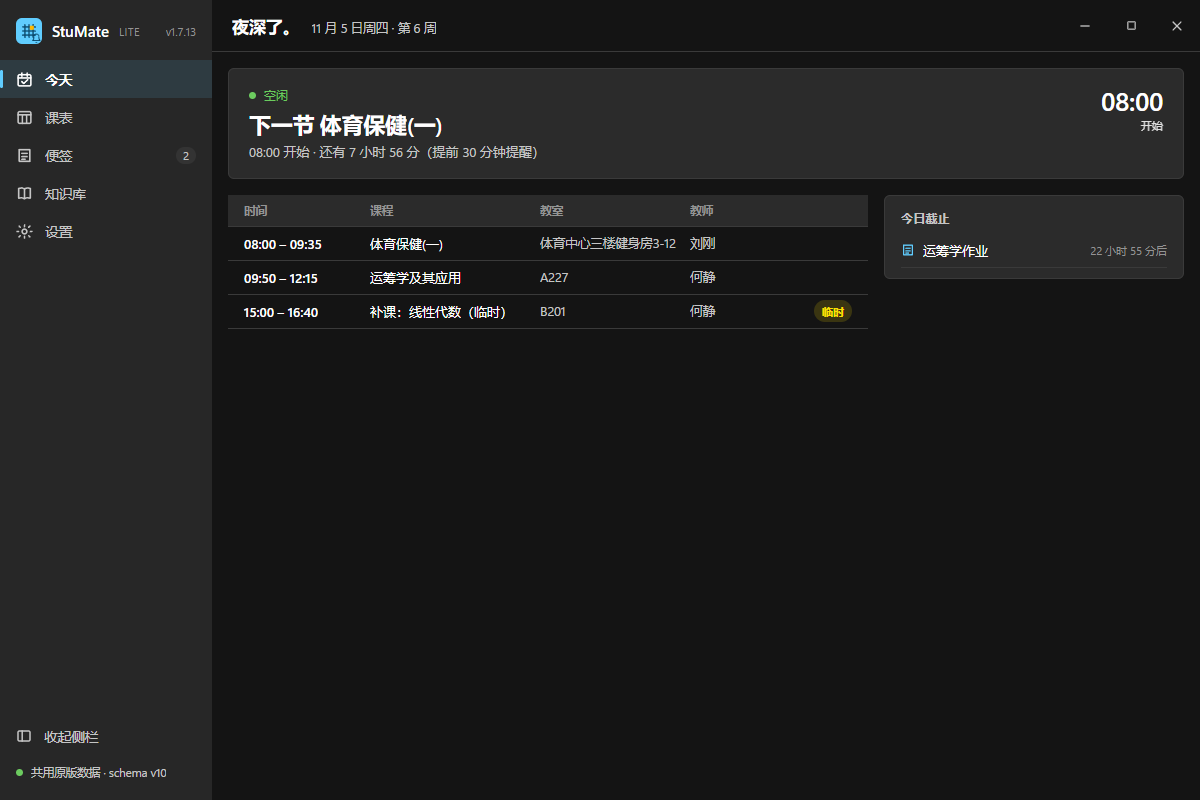
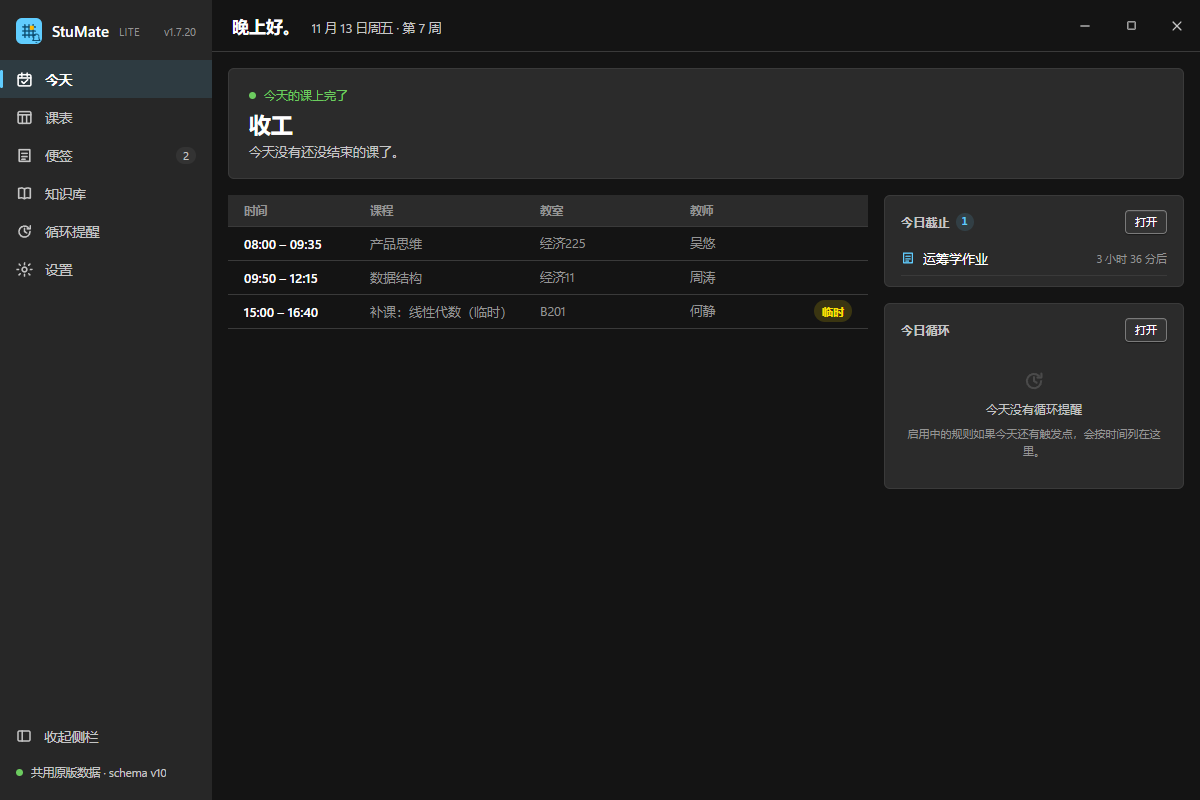
v1.7.20 今日截止加打开按钮，卡片按钮统一显式描边

diff --git a/src/styles/app.css b/src/styles/app.css
@@ -2323,7 +2323,9 @@ html.theme-switching *::after {
   padding: 14px 16px 10px;
 }
 
-.today-rec-head {
+/* v1.7.20：右列两张卡的标题行/计数徽标统一成同一套类，
+ * 「今日截止」也要挂「打开」按钮，两边不能各写一份。 */
+.card-head {
   display: flex;
   align-items: center;
   justify-content: space-between;
@@ -2331,7 +2333,7 @@ html.theme-switching *::after {
   margin-bottom: 8px;
 }
 
-.today-rec-heading {
+.card-heading {
   display: flex;
   align-items: center;
   gap: 6px;
@@ -2341,7 +2343,7 @@ html.theme-switching *::after {
   color: var(--on-surface-variant);
 }
 
-.today-rec-count {
+.card-head-count {
   display: inline-flex;
   align-items: center;
   justify-content: center;
@@ -2354,10 +2356,6 @@ html.theme-switching *::after {
   font-family: var(--font-mono, monospace);
   font-size: 11px;
   font-weight: 600;
-}
-
-.today-rec-open {
-  flex: 0 0 auto;
 }
 
 .today-rec-empty {
@@ -2643,3 +2641,65 @@ html.theme-switching *::after {
   .rec-fire-tip { animation: none; }
 }
 
+
+/* ── v1.7.20 · 卡片右上角「打开」：做一个看得见边缘的按钮 ─────────────
+ * 原来「打开」是 .btn.ghost（border-color: transparent），压在卡面底色上
+ * 只剩一行 11px 灰字，读起来像标签而不是按钮。这里给它一条真能看见的边：
+ *   · 1px 描边取 --card-btn-edge：浅色 #8c8c8c 对白卡 3.4:1、深色 #7a7a7a
+ *     对 #2b2b2b 约 3.1:1 —— 两套都过 WCAG 1.4.11「非文字控件边界 3:1」，
+ *     深色下也不会糊进卡面（--outline-strong #4a4a4a 只有 1.6:1，不够用）；
+ *   · 上沿 1px 内高光 + 下沿 1px 硬影，给一块「凸起」的实体感；按下时反
+ *     过来（内阴影 + 下沉 0.5px），按压反馈只动 transform，不改变布局边界；
+ *   · hover 把描边换成强调色、底色铺一层 --accent-tint，文字仍用正文色
+ *     —— 11px 的蓝字压在蓝底上没必要，边界变亮已经足够说明「可点」。
+ * 键盘焦点沿用全局 button:focus-visible 的强调色外环，这里不另写。
+ * 回滚 = 删掉本段 + 两处 className 里的 card-open-btn。 */
+:root[data-theme="light"] {
+  --card-btn-bg: #ffffff;
+  --card-btn-edge: #8c8c8c;
+  --card-btn-hi: rgba(255, 255, 255, 0.9);
+  --card-btn-drop: rgba(0, 0, 0, 0.1);
+}
+:root[data-theme="dark"] {
+  /* 深色下卡面本身就是 --surface #2b2b2b，按钮填同色会只剩一个空心框；
+     往上提一档到 #333，配合描边才读得出「凸起的一块」。 */
+  --card-btn-bg: #333333;
+  --card-btn-edge: #7a7a7a;
+  --card-btn-hi: rgba(255, 255, 255, 0.07);
+  --card-btn-drop: rgba(0, 0, 0, 0.45);
+}
+
+/* 选择器写满 .btn.xxx：.btn.sm 是 (0,2,0)，只写 .card-open-btn 会被它的
+ * height / padding 盖掉；文件末尾的同等权重靠先后顺序取胜。 */
+.btn.card-open-btn {
+  flex: 0 0 auto;
+  height: 24px;
+  padding: 0 9px;
+  border: 1px solid var(--card-btn-edge);
+  background: var(--card-btn-bg);
+  color: var(--on-surface);
+  white-space: nowrap;
+  box-shadow: inset 0 1px 0 var(--card-btn-hi), 0 1px 1px var(--card-btn-drop);
+  transition: background var(--dur-fast) var(--ease-fluent),
+    border-color var(--dur-fast) var(--ease-fluent),
+    box-shadow var(--dur-fast) var(--ease-fluent),
+    transform var(--dur-fast) var(--ease-fluent);
+}
+
+.btn.card-open-btn:hover {
+  border-color: var(--accent);
+  background: var(--accent-tint);
+  box-shadow: inset 0 1px 0 var(--card-btn-hi), 0 1px 2px var(--card-btn-drop);
+}
+
+.btn.card-open-btn:active {
+  border-color: var(--accent);
+  background: var(--press);
+  transform: translateY(0.5px);
+  box-shadow: inset 0 1px 2px var(--card-btn-drop);
+}
+
+@media (prefers-reduced-motion: reduce) {
+  .btn.card-open-btn { transition: none; }
+  .btn.card-open-btn:active { transform: none; }
+}

diff --git a/src/pages/TodayPage.tsx b/src/pages/TodayPage.tsx
@@ -127,7 +127,25 @@ export function TodayPage({
               包一层 flex 列而不是把两节塞进同一张卡 —— 用户要的是「单独窗口」。 */}
           <div className="today-side">
           <section className="card" style={{ padding: "14px 16px 10px" }}>
-            <SectionTitle>今日截止</SectionTitle>
+            {/* v1.7.20：「今日截止」也挂上「打开」，跳到便签页。
+                标题行与下方「今日循环」共用 card-head / card-heading /
+                card-head-count 三个类，两张卡的头部才严丝合缝地同高对齐。 */}
+            <div className="card-head">
+              <div className="card-heading">
+                <span>今日截止</span>
+                {deadlines.length > 0 ? (
+                  <span className="card-head-count">{deadlines.length}</span>
+                ) : null}
+              </div>
+              <button
+                type="button"
+                className="btn sm card-open-btn"
+                onClick={() => onNavigate?.("notes")}
+                title="打开便签页"
+              >
+                打开
+              </button>
+            </div>
             {deadlines.length === 0 ? (
               <div className="empty" style={{ padding: "24px 0" }}>
                 <span className="empty-icon">
@@ -185,22 +203,6 @@ export function TodayPage({
         </div>
       </div>
     </>
-  );
-}
-
-function SectionTitle({ children }: { children: React.ReactNode }) {
-  return (
-    <div
-      style={{
-        fontSize: 12,
-        fontWeight: 600,
-        color: "var(--on-surface-variant)",
-        marginBottom: 8,
-        letterSpacing: 0.2,
-      }}
-    >
-      {children}
-    </div>
   );
 }
 

diff --git a/src/components/TodayRecurringCard.tsx b/src/components/TodayRecurringCard.tsx
@@ -41,16 +41,18 @@ export function TodayRecurringCard({
 
   return (
     <section className="card today-rec-card">
-      <div className="today-rec-head">
-        <div className="today-rec-heading">
-          <span className="today-rec-heading-text">今日循环</span>
+      {/* v1.7.20：标题行 / 计数 / 「打开」三个部件改成共享类，与上方
+          「今日截止」用同一套（card-head / card-head-count / card-open-btn）。 */}
+      <div className="card-head">
+        <div className="card-heading">
+          <span>今日循环</span>
           {fires.length > 0 ? (
-            <span className="today-rec-count">{fires.length}</span>
+            <span className="card-head-count">{fires.length}</span>
           ) : null}
         </div>
         <button
           type="button"
-          className="btn ghost sm today-rec-open"
+          className="btn sm card-open-btn"
           onClick={() => onNavigate?.("recurring")}
           title="打开循环提醒页"
         >

diff --git a/tools/preview_bridge.js b/tools/preview_bridge.js
@@ -189,7 +189,7 @@
   };
 
   var APP_INFO = {
-    version: "1.7.19",
+    version: "1.7.20",
     flavor: "lite",
     dataDir: "C:\\Users\\Administrator\\AppData\\Roaming\\StuMate",
     dbPath: "C:\\Users\\Administrator\\AppData\\Roaming\\StuMate\\class_reminder.db",
